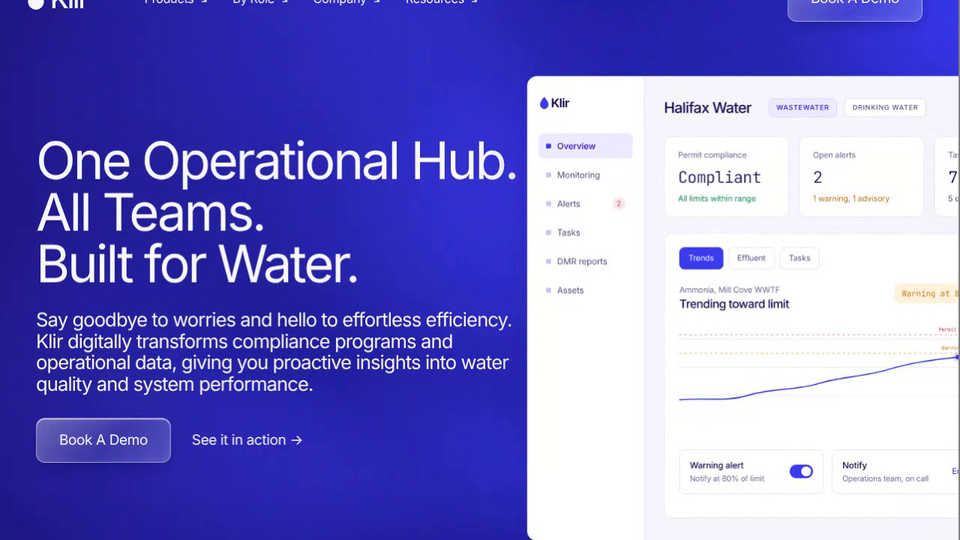
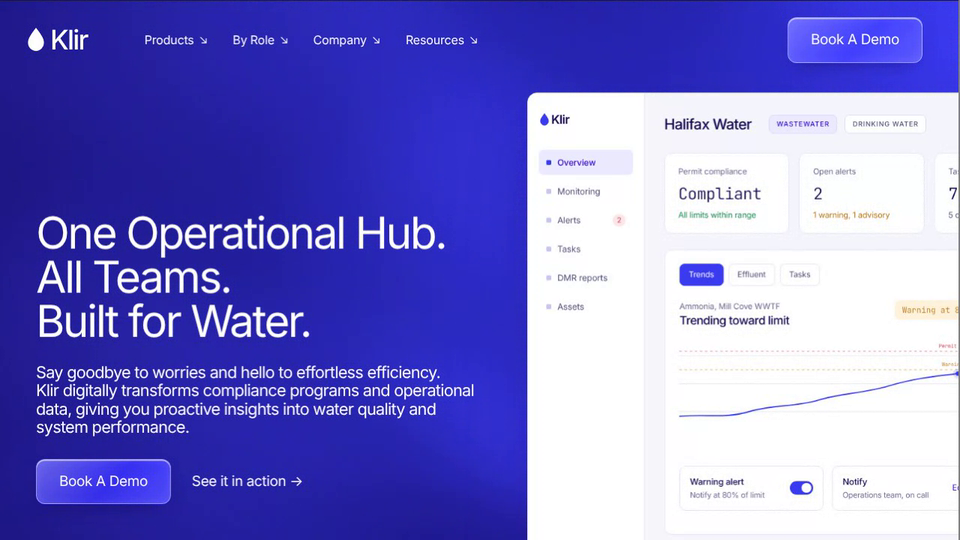
Klir side reveal: smaller hero text, faster reveal scroll, tighter spacing under the dashboard
Claude-Session: https://claude.ai/code/session_01AHeBdyKiiUaJC1VuNiJRth

diff --git a/klir-landing-page-side-reveal/index.html b/klir-landing-page-side-reveal/index.html
@@ -27,8 +27,8 @@ nav.back b{font-weight:500;color:#fff;overflow:hidden;text-overflow:ellipsis}
 header.site{position:absolute;top:0;left:0;right:0;z-index:3;display:flex;align-items:center;gap:36px;padding:22px 48px 22px 35px}
 .logo{text-decoration:none;display:flex;align-items:center;gap:6px;font-weight:500;font-size:36px;letter-spacing:-.05em;color:#fff}
 header.site .links{display:flex;gap:34px;font-size:16px;margin-right:auto;margin-left:40px;letter-spacing:-.01em}
-.hero h1{color:#fff;font-weight:300;font-size:clamp(38px,5.4vw,78px);line-height:1;letter-spacing:-.045em;max-width:12em;white-space:nowrap}
-.hero .sub{font-size:clamp(19px,2vw,27px);line-height:1.12;letter-spacing:-.035em;max-width:min(27em,50vw);margin-top:26px}
+.hero h1{color:#fff;font-weight:300;font-size:clamp(32px,4.6vw,66px);line-height:1;letter-spacing:-.045em;max-width:12em;white-space:nowrap}
+.hero .sub{font-size:clamp(17px,1.7vw,23px);line-height:1.12;letter-spacing:-.035em;max-width:min(27em,50vw);margin-top:26px}
 .hero .cta{margin-top:30px;align-items:center;gap:28px}
 .btn{display:inline-block;background:var(--blue);color:#fff;text-decoration:none;font-weight:400;font-size:19px;letter-spacing:-.02em;padding:15px 30px;border-radius:6px;transition:background .2s}
 .btn:hover{background:var(--indigo)}
@@ -98,7 +98,7 @@ footer p{font-size:clamp(18px,1.8vw,22px);letter-spacing:-.02em;max-width:30em;m
 .fbtn{background:#fff;color:var(--navy);text-decoration:none;font-size:19px;letter-spacing:-.02em;padding:17px 32px;border-radius:6px}
 .fbtn:hover{background:var(--lav)}
 .flink{color:#fff;font-size:19px;letter-spacing:-.02em;text-decoration:underline;text-underline-offset:5px}
-.uiwrap{transform-origin:0 0;backface-visibility:hidden;position:relative;z-index:4;margin:-24px auto 60px;width:min(1120px,calc(100% - 160px));will-change:transform}
+.uiwrap{transform-origin:0 0;backface-visibility:hidden;position:relative;z-index:4;margin:-24px auto 20px;width:min(1120px,calc(100% - 160px));will-change:transform}
 .app{display:grid;grid-template-columns:190px 1fr;background:#f6f7fd;border:1px solid #deddf3;border-radius:16px;box-shadow:0 50px 110px -30px rgba(23,9,79,.45);overflow:hidden;font-size:14px;letter-spacing:-.01em;color:var(--navy)}
 .app aside{background:#fff;border-right:1px solid #e6e5f6;padding:28px 18px}
 .brand{display:flex;gap:2px;align-items:center;font-weight:600;font-size:20px;letter-spacing:-.04em;margin-bottom:34px}
@@ -331,20 +331,20 @@ function layout(){
   nodes=[...document.querySelectorAll('.eyebrow.node')].map(e=>{const r=e.getBoundingClientRect();return{y:r.top-m.top+r.height/2,el:e}});
   $('nodes').innerHTML=nodes.map((n,i)=>`<g id="n${i}" opacity="0" style="transition:opacity .35s"><use href="#drop" transform="translate(${X} ${n.y+1}) scale(1.1)" fill="#fafbff" stroke="#fafbff" stroke-width="7" stroke-linejoin="round"/><use href="#drop" transform="translate(${X} ${n.y+1}) scale(1.1)" fill="#fff" stroke="#3b3bef" stroke-width="1.7"/></g>`).join('');
   LT=Math.max(HB,(nodes[0]?nodes[0].y:HB)-60);$('solid').setAttribute('y1',LT);$('solid').setAttribute('y2',H);const fg=$('fade');fg.setAttribute('y1',LT);fg.setAttribute('y2',H);
-  {const u=$('ui'),vw=wrap.clientWidth,sm=vw<=820;UN=wrap.offsetTop+u.offsetTop;SY=49+HB*(sm?.3:.17);EY=Math.max(sm?70:90,innerHeight*.125);SC0=sm?.9:.82;TX0=vw*(sm?.6:.55)-u.offsetLeft;BH=Math.max(EY+u.offsetHeight+110,innerHeight)}
+  {const u=$('ui'),vw=wrap.clientWidth,sm=vw<=820;UN=wrap.offsetTop+u.offsetTop;SY=49+HB*(sm?.3:.17);EY=Math.max(sm?70:90,innerHeight*.125);SC0=sm?.9:.82;TX0=vw*(sm?.6:.55)-u.offsetLeft;BH=Math.max(EY+u.offsetHeight+50,innerHeight)}
   tick();
 }
 function tick(){
   const vg=$('vg');vg.setAttribute('y1',-wrap.getBoundingClientRect().top);vg.setAttribute('y2',-wrap.getBoundingClientRect().top+innerHeight);
   nodes.forEach((n,i)=>{const e=$('n'+i);const on=n.y<=innerHeight*.5-wrap.getBoundingClientRect().top;if(e)e.setAttribute('opacity',on?1:0);n.el.classList.toggle('seen',on)});
   $('snav').classList.toggle('show',$('ui').getBoundingClientRect().bottom<0);
-  PPt=Math.min(1,Math.max(0,scrollY/(HB*.8)));if(!inited){PPs=PPt;inited=1}const pp=PPs;PP=pp;
+  PPt=Math.min(1,Math.max(0,scrollY/(HB*.5)));if(!inited){PPs=PPt;inited=1}const pp=PPs;PP=pp;
   $('tip1').classList.toggle('show',pp>.75);$('tip2').classList.toggle('show',pp>.92);
   /* hero text fades out first (gone by half way), then the Klir pill fades in above the dashboard */
   {const o=Math.max(0,Math.min(1,(pp-.55)/.25)),pl=$('pill');pl.style.opacity=o;pl.style.pointerEvents=o>.5?'auto':'none'}
   heroEls.forEach(e=>{e.style.opacity=Math.max(0,1-pp*2)});
   /* the hero stays put while the dashboard slides in (it only pulls up by the height of the black nav bar), then lets go and scrolls away with the page */
-  {const e=pp*pp*(3-2*pp),s=Math.min(scrollY,HB*.8),n=Math.min(s,49),pin=`translateY(${s-n}px)`;
+  {const e=pp*pp*(3-2*pp),s=Math.min(scrollY,HB*.5),n=Math.min(s,49),pin=`translateY(${s-n}px)`;
   document.querySelector('.hero').style.transform=pin;tail.style.transform=pin;
   tail.style.height=(BH+n)+'px';
   const vy=SY+(EY-SY)*e;$('ui').style.transform=`translate(${TX0*(1-e)}px,${vy+s-UN}px) scale(${SC0+(1-SC0)*e})`}
@@ -416,7 +416,7 @@ addEventListener('scroll',tick,{passive:true});
 /* the reveal eases toward the scroll position every frame, so wheel steps and trackpad flicks glide instead of stepping (the hero pin itself stays tied to the real scroll) */
 (function sm(){if(Math.abs(PPt-PPs)>.0004){PPs+=(PPt-PPs)*.14;tick()}else if(PPs!==PPt){PPs=PPt;tick()}requestAnimationFrame(sm)})();addEventListener('resize',layout);
 if(location.hash=='#clip')document.documentElement.style.scrollBehavior='auto';
-$('seeit').onclick=e=>{e.preventDefault();scrollTo({top:HB*.8,behavior:'smooth'})};
+$('seeit').onclick=e=>{e.preventDefault();scrollTo({top:HB*.5,behavior:'smooth'})};
 (document.fonts?document.fonts.ready:Promise.resolve()).then(layout);layout();play();
 new ResizeObserver(layout).observe(wrap);
 /* gooey hover: the image is pulled toward the pointer like a liquid */

diff --git a/tools/record-clips.js b/tools/record-clips.js
@@ -57,7 +57,7 @@ const APPS = {
   'klir-landing-page-side-reveal': { http: true, vp: [1280, 769], crop: [0, 49, 1280, 720], hash: '#clip', ready: 2500, q: 34, run: async (p) => {
     // eased scrolls of a fixed duration so the page is back at the top (the first frame) before the loop point at 6s
     const t0 = Date.now(), to = (y, ms) => p.evaluate(([v, d]) => { const a = scrollY, s = performance.now(); (function f(t) { const k = Math.min(1, (t - s) / d), e = k < .5 ? 2 * k * k : 1 - Math.pow(-2 * k + 2, 2) / 2; scrollTo(0, a + (v - a) * e); if (k < 1) requestAnimationFrame(f); })(s); }, [y, ms]);
-    await at(t0, 700, () => to(620, 1700));
+    await at(t0, 700, () => to(420, 1500));
     await at(t0, 3200, () => to(1300, 900));
     await at(t0, 4200, () => to(0, 1200));
   } },
